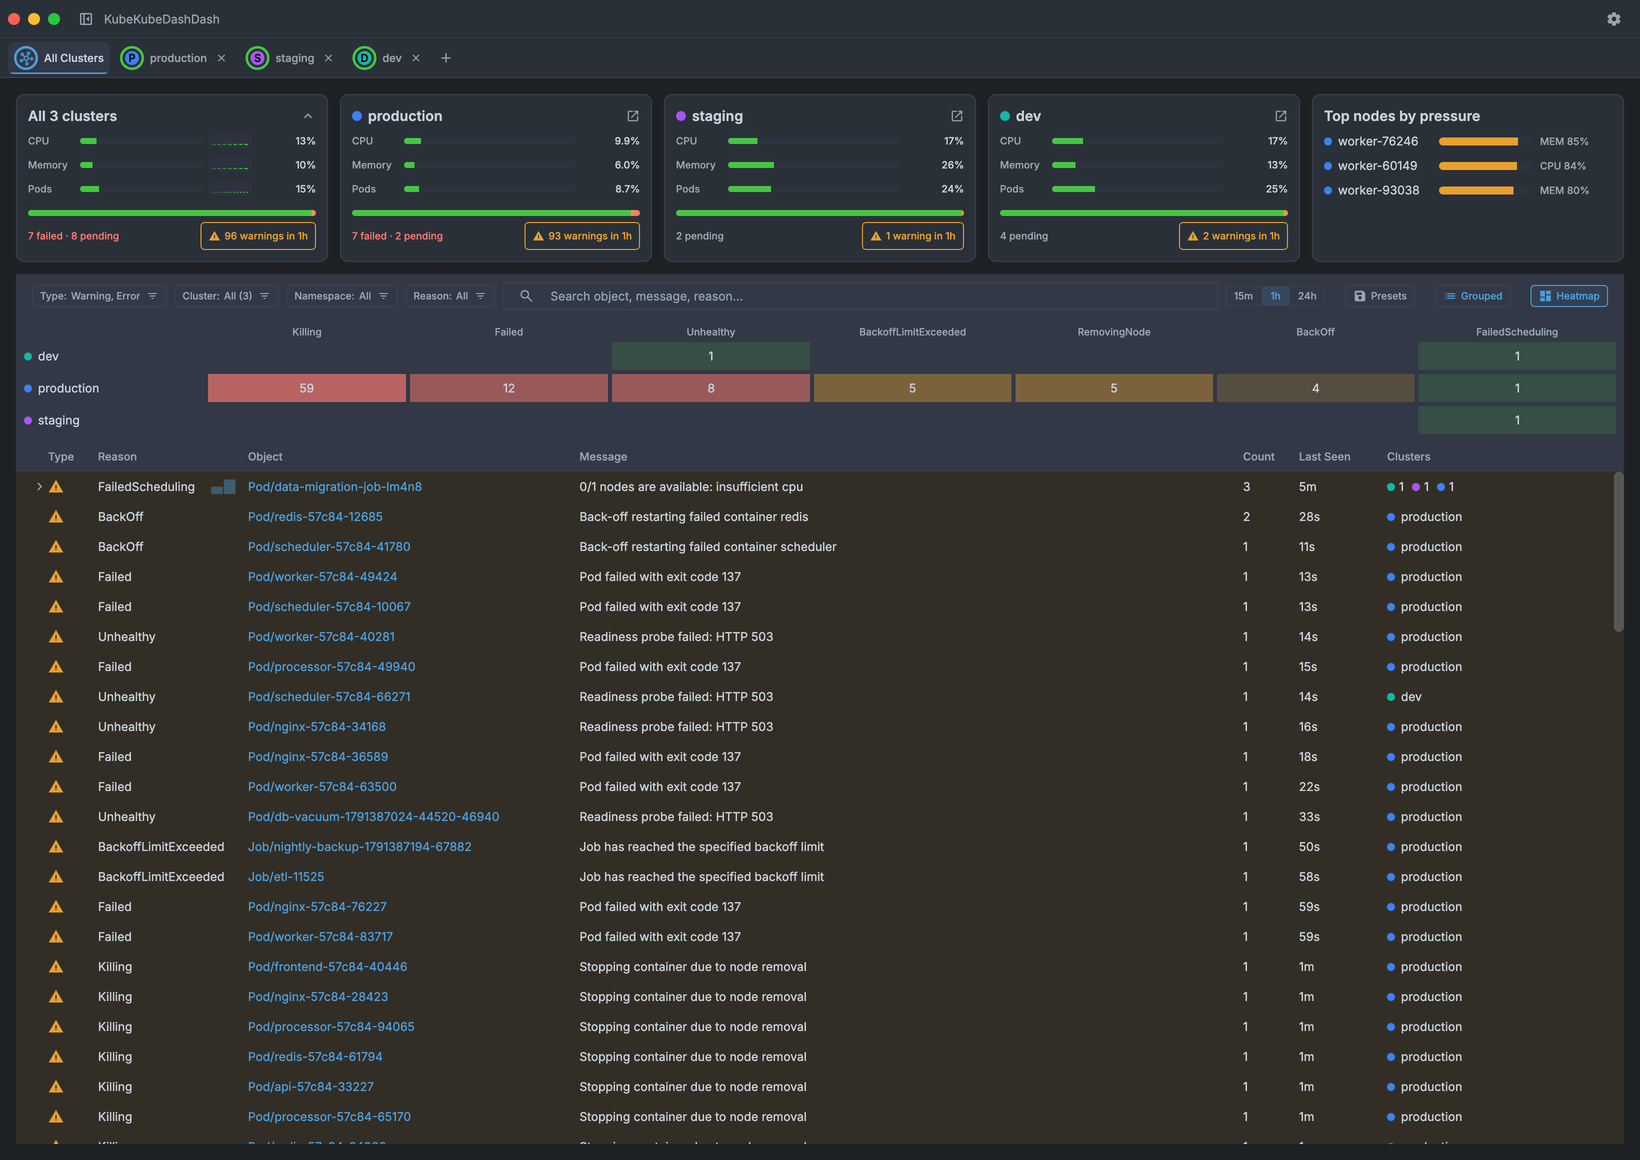
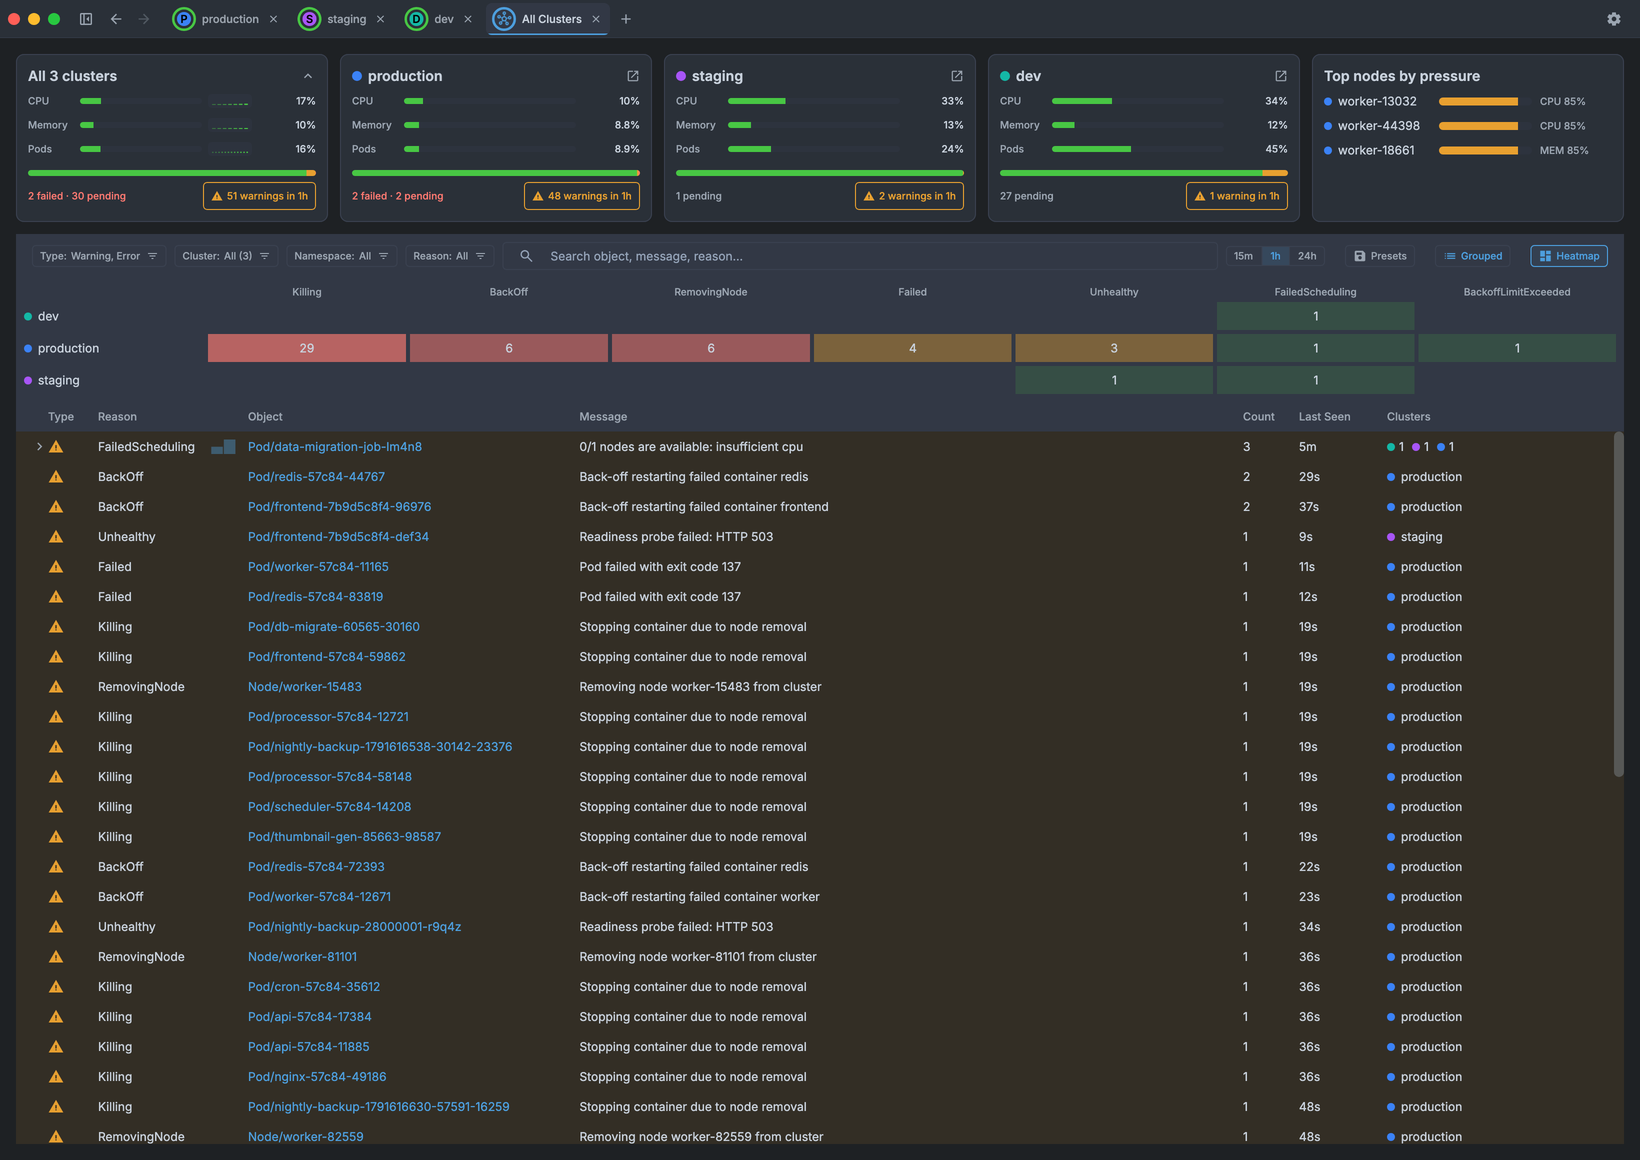
docs(site): regenerate the feature images and README screenshots
The heroes were recaptured in ab5ac43, but the feature tiles, their
phone crops, the social card and the three README screenshots still
showed the app as of 2026-10-07 (the old page header, 303 pods). They
now come from the same capture run. The current header is shorter, so
three crop boxes moved to keep their subject: the fleet phone crop
starts at the cluster panels again, the command-palette crop holds the
whole palette, and the Secret crop ends on the last YAML line. Every
output keeps its size, so the page's width/height attributes still
hold. The Retro CRT animation and its poster are kept as they were: the
new capture shows the finished Retro look before the power-on starts.

diff --git a/scripts/site_images.py b/scripts/site_images.py
@@ -66,14 +66,14 @@ CROPS: dict[str, Box | list[Box] | None] = {
     "bulk": (292, 40, 1640, 600),
     "tail": [(0, 808, 1100, 911), (0, 923, 1100, 1160)],  # drawer header, first whole line on
     "port-forward": (547, 332, 1093, 828),  # dialog + 16 dp scrim
-    "palette": (516, 80, 1126, 590),
-    "secret": (1070, 80, 1640, 445),  # pane header to end of YAML
+    "palette": (516, 119, 1126, 629),
+    "secret": (1070, 76, 1640, 441),  # pane header to end of YAML
 }
 
 # Phone-width crops of the wide tiles, written as img/<name>-mobile.webp. These are dp boxes of
 # the same capture, not output sizes; the page's width/height attributes follow the output.
 MOBILE_CROPS: dict[str, Box | list[Box]] = {
-    "fleet": (0, 84, 658, 711),  # Total + first cluster panel, heatmap, the event feed's left columns
+    "fleet": (0, 46, 658, 673),  # Total + first cluster panel, heatmap, the event feed's left columns
     "bulk": (292, 40, 1020, 600),  # checkboxes, names, statuses, "6 pods selected"
     "tail": [(0, 808, 620, 911), (0, 923, 620, 1160)],
 }
